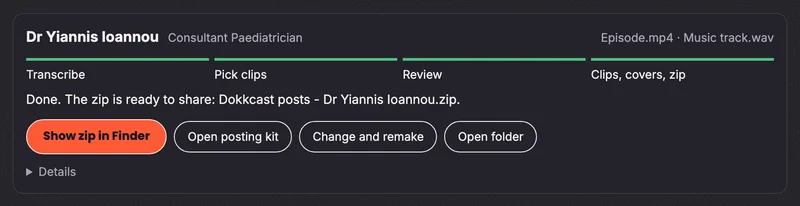
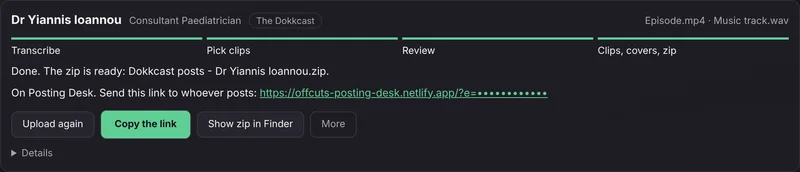
Offcuts and Posting Desk: new ink and green screenshots, and the handoff between them
- Offcuts post: new start screen, a finished-episode card with its Posting
  Desk link (hidden), and Step 6/7 now cover Upload to Posting Desk and
  posting from the desk instead of the old posting kit
- Our work and Work with us: Offcuts card uses the new start screen and
  says Offcuts makes the posts, Posting Desk gets them posted
- Posting Desk screenshots re-rendered in the new look

Claude-Session: https://claude.ai/code/session_01L6d6nELbPHNnP2HKGqbg6r

diff --git a/blog/offcuts-month-of-marketing/index.html b/blog/offcuts-month-of-marketing/index.html
@@ -4,12 +4,12 @@
   <meta charset="utf-8">
   <meta name="viewport" content="width=device-width, initial-scale=1">
   <title>A month of podcast marketing from one episode | Meadow Brand Marketing Services</title>
-  <meta name="description" content="What a month of podcast marketing looks like with Offcuts, the app we built: clips, captions for each channel, covers, a review and approval step, and a posting kit.">
+  <meta name="description" content="What a month of podcast marketing looks like with Offcuts, the app we built: clips, captions for each channel, covers, a review and approval step, and Posting Desk for whoever posts.">
   <link rel="canonical" href="https://mbmspodcaststudio.com/blog/offcuts-month-of-marketing/">
   <meta property="og:type" content="article">
   <meta property="og:site_name" content="Meadow Brand Marketing Services">
   <meta property="og:title" content="One episode in, a month of marketing out: how we use Offcuts">
-  <meta property="og:description" content="What a month of podcast marketing looks like with Offcuts, the app we built: clips, captions for each channel, covers, a review and approval step, and a posting kit.">
+  <meta property="og:description" content="What a month of podcast marketing looks like with Offcuts, the app we built: clips, captions for each channel, covers, a review and approval step, and Posting Desk for whoever posts.">
   <meta property="og:url" content="https://mbmspodcaststudio.com/blog/offcuts-month-of-marketing/">
   <meta property="og:image" content="https://mbmspodcaststudio.com/images/share/offcuts-month-of-marketing-zine-2.jpg">
   <meta property="og:image:width" content="1200">
@@ -23,7 +23,7 @@
   "@context": "https://schema.org",
   "@type": "BlogPosting",
   "headline": "One episode in, a month of marketing out: how we use Offcuts",
-  "description": "What a month of podcast marketing looks like with Offcuts, the app we built: clips, captions for each channel, covers, a review and approval step, and a posting kit.",
+  "description": "What a month of podcast marketing looks like with Offcuts, the app we built: clips, captions for each channel, covers, a review and approval step, and Posting Desk for whoever posts.",
   "datePublished": "2026-10-29",
   "dateModified": "2026-10-29",
   "inLanguage": "en-GB",
@@ -70,7 +70,7 @@
       "name": "Does Offcuts post to social media by itself?",
       "acceptedAnswer": {
         "@type": "Answer",
-        "text": "No. Offcuts prepares everything and lays it out day by day, but nothing is posted from the app. A person posts or schedules each one and ticks it off."
+        "text": "No. Offcuts makes everything and Posting Desk lays it out day by day, but nothing is posted automatically. A person posts or schedules each one and ticks it off on Posting Desk."
       }
     },
     {
@@ -152,7 +152,7 @@
         <h2>Step 1: one episode in</h2>
         <p>Everything starts with a short form. We add the episode video, a music track, the guest’s name and job, the date of the first post and, if we have one, a photo of the guest for the covers. Then we press Start.</p>
         <figure class="post-figure">
-          <img src="../../images/offcuts-new-episode.webp" srcset="../../images/offcuts-new-episode-800.webp 800w, ../../images/offcuts-new-episode.webp 1600w" sizes="(max-width: 760px) 100vw, 720px" width="1600" height="1274" loading="lazy" alt="The Offcuts start screen, with options for how clips are picked and a form for the episode video, music track, guest name, guest’s job, first post date and guest photo">
+          <img src="../../images/offcuts-new-episode.webp" srcset="../../images/offcuts-new-episode-800.webp 800w, ../../images/offcuts-new-episode.webp 1600w" sizes="(max-width: 760px) 100vw, 720px" width="1600" height="800" loading="lazy" alt="The Offcuts start screen, with a form for the brand kit, episode video, music track, guest name, guest’s job, first post date and guest photo">
           <figcaption>The start screen: an episode, a music track and a few details about the guest</figcaption>
         </figure>
         <p>Offcuts transcribes the episode, then Claude reads the transcript and suggests the moments most likely to work on their own: the kind of strong opinions, short stories and surprising facts we describe in our <a href="../how-to-find-the-best-podcast-clips/">clip-finding checklist</a>. About 15 minutes later, the review page opens.</p>
@@ -192,13 +192,20 @@
         <h3>Setting the music by ear</h3>
         <p>The review page also has a music slider. It plays each clip with the track underneath at the level you choose, so the mix can be set by ear rather than guessed. When the clips are made, the music dips a little under speech so the guest is always clear.</p>
 
-        <h2>Step 6: a posting kit and calendar</h2>
-        <p>Once the clips are approved, Offcuts makes the videos and covers and packs everything into a single zip to share. It also builds a posting kit: a calendar laid out day by day, with each post’s video, caption and a button to open the right app.</p>
+        <h2>Step 6: one zip, then one link</h2>
+        <p>Once the clips are approved, Offcuts makes the videos and covers and packs everything into a single zip. Then one button, Upload to Posting Desk, puts the episode online and gives it its own private link.</p>
         <figure class="post-figure">
-          <img src="../../images/offcuts-posting-kit.webp" srcset="../../images/offcuts-posting-kit-800.webp 800w, ../../images/offcuts-posting-kit.webp 1600w" sizes="(max-width: 760px) 100vw, 720px" width="1600" height="1170" loading="lazy" alt="The Offcuts posting kit for one day, with the clip ready for TikTok, Instagram, YouTube Shorts and LinkedIn, each with Copy caption and Open buttons and a Done tick box">
-          <figcaption>The posting kit: one day, four channels, everything ready to copy</figcaption>
+          <img src="../../images/offcuts-episode-done.webp" srcset="../../images/offcuts-episode-done-800.webp 800w, ../../images/offcuts-episode-done.webp 1600w" sizes="(max-width: 760px) 100vw, 720px" width="1600" height="345" loading="lazy" alt="A finished episode in Offcuts: all four steps done, the zip ready, and a Posting Desk link to send to whoever posts">
+          <figcaption>A finished episode: the zip is ready and the Posting Desk link is one click to copy (link hidden here)</figcaption>
         </figure>
-        <p>Posting a clip means opening the day, copying the caption, uploading the video and ticking Done. The kit keeps count of how many of the 36 posts are out or scheduled, so it’s always clear what’s left. Nine clips across four channels is enough for two or three posts a week for a month, all from one conversation.</p>
+
+        <h2>Step 7: Posting Desk, where the posting happens</h2>
+        <p>Offcuts makes the posts. Posting Desk gets them posted. Whoever does the posting, whether that’s us, an intern or the client’s own team, opens the link. They don’t need a login, the zip or the app. Each day’s clips are laid out with the video, cover and caption for TikTok, Instagram, YouTube Shorts and LinkedIn, plus buttons to copy the caption, save the video and open the right app.</p>
+        <figure class="post-figure">
+          <img src="../../images/posting-desk-full.webp" srcset="../../images/posting-desk-full-800.webp 800w, ../../images/posting-desk-full.webp 1600w" sizes="(max-width: 760px) 100vw, 720px" width="1600" height="1378" loading="lazy" alt="Posting Desk showing one clip from the episode ready for TikTok, Instagram, YouTube Shorts and LinkedIn, each with its video, cover, caption, Copy caption, Save video and Open buttons and a Posted tick box">
+          <figcaption>Posting Desk: one clip, four channels, everything ready to copy</figcaption>
+        </figure>
+        <p>Each post is posted or scheduled by a person, who then ticks Posted. Everyone sees the tick and who made it, so it’s always clear what’s out and what’s left. Each link shows only its own episode, and only we can add or remove episodes. Nine clips across four channels is enough for two or three posts a week for a month, all from one conversation.</p>
 
         <h2>Why we built it</h2>
         <p>Most podcasts don’t lack good moments. They lack the time to turn those moments into posts, and the clips that do go out are often one shape, one caption, posted everywhere. Offcuts does the repetitive part so our time goes on what needs a person: choosing the best moments, checking every word and making sure the guest is shown well.</p>
@@ -211,7 +218,7 @@
           </details>
           <details>
             <summary>Does Offcuts post to social media by itself?</summary>
-            <p>No. Offcuts prepares everything and lays it out day by day, but nothing is posted from the app. A person posts or schedules each one and ticks it off.</p>
+            <p>No. Offcuts makes everything and Posting Desk lays it out day by day, but nothing is posted automatically. A person posts or schedules each one and ticks it off on Posting Desk.</p>
           </details>
           <details>
             <summary>Why does each channel get its own caption?</summary>

diff --git a/case-studies/index.html b/case-studies/index.html
@@ -122,11 +122,11 @@
             </div>
           </article>
           <article class="case">
-            <img src="/images/offcuts-review-800.webp" width="800" height="679" loading="lazy" alt="The Offcuts review page, where clips and captions are checked and approved before posting">
+            <img src="/images/offcuts-app-800.webp" srcset="/images/offcuts-app-800.webp 800w, /images/offcuts-app.webp 1600w" sizes="(max-width: 760px) 100vw, 560px" width="800" height="450" loading="lazy" alt="The Offcuts start screen, with the brand kit, episode video, music track and guest details for a Dokkcast episode">
             <div class="case-body">
               <p class="case-tag">Our own work &middot; Product</p>
               <h2 class="case-title">Offcuts</h2>
-              <p>Our own tool for turning one episode into a month of marketing: clips, captions for each channel, covers and a posting kit, with a review page so nothing goes out without approval.</p>
+              <p>Offcuts makes the posts. One episode in, and out come clips, captions for each channel and covers, with a review page so nothing goes out without approval. It runs on our Mac, so the video never leaves it, and it hands each finished episode to Posting Desk.</p>
               <p class="case-result"><a class="text-link" href="/blog/offcuts-month-of-marketing/">See how it works&nbsp;&rarr;</a></p>
             </div>
           </article>
@@ -135,7 +135,7 @@
             <div class="case-body">
               <p class="case-tag">Our own work &middot; Product</p>
               <h2 class="case-title">Posting Desk</h2>
-              <p>The shared page that goes with Offcuts. Each episode gets a private link where whoever posts sees every clip with its video, cover and caption for each channel, copies the caption, and ticks it off with their name so everyone knows what’s gone out.</p>
+              <p>Posting Desk gets them posted. Offcuts uploads each finished episode and gives it a private link. Whoever posts opens it, with no login or zip, copies each caption, posts or schedules the clip and ticks it off with their name, so everyone can see what’s gone out.</p>
               <p class="case-result"><a class="text-link" href="/blog/offcuts-month-of-marketing/">See how Offcuts works&nbsp;&rarr;</a></p>
             </div>
           </article>

diff --git a/work-with-us/index.html b/work-with-us/index.html
@@ -143,11 +143,11 @@
             </div>
           </article>
           <article class="case">
-            <img src="/images/offcuts-review-800.webp" width="800" height="679" loading="lazy" alt="The Offcuts review page, where clips and captions are checked and approved before posting">
+            <img src="/images/offcuts-app-800.webp" width="800" height="450" loading="lazy" alt="The Offcuts start screen, with the brand kit, episode video, music track and guest details for a Dokkcast episode">
             <div class="case-body">
               <p class="case-tag">Our own work &middot; Product</p>
               <h3>Offcuts</h3>
-              <p>Our own tool for turning one episode into clips, captions for each channel, covers and a posting kit, with a review page so nothing goes out without your approval.</p>
+              <p>Our own tool for turning one episode into clips, captions for each channel and covers, with a review page so nothing goes out without your approval, and Posting Desk so whoever posts has everything in one place.</p>
               <p class="case-result"><a class="text-link" href="/blog/offcuts-month-of-marketing/">See how it works&nbsp;&rarr;</a></p>
             </div>
           </article>
